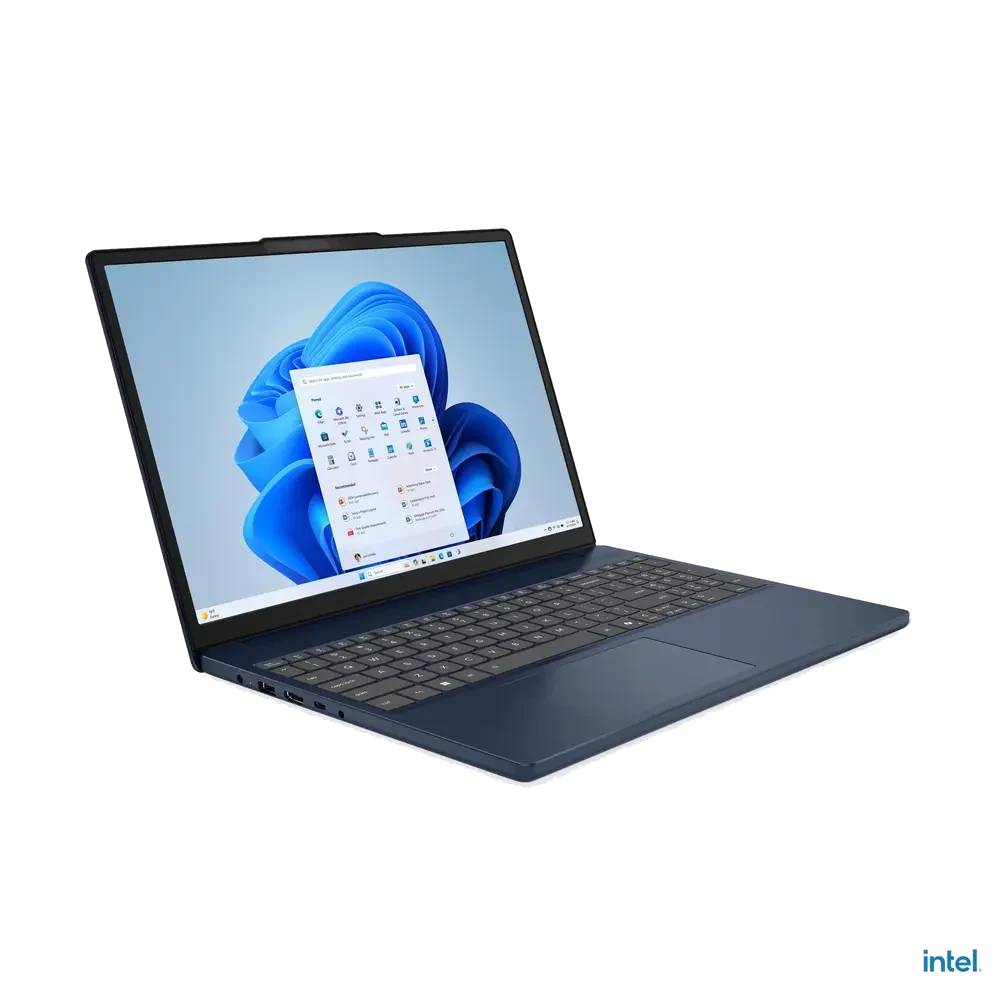
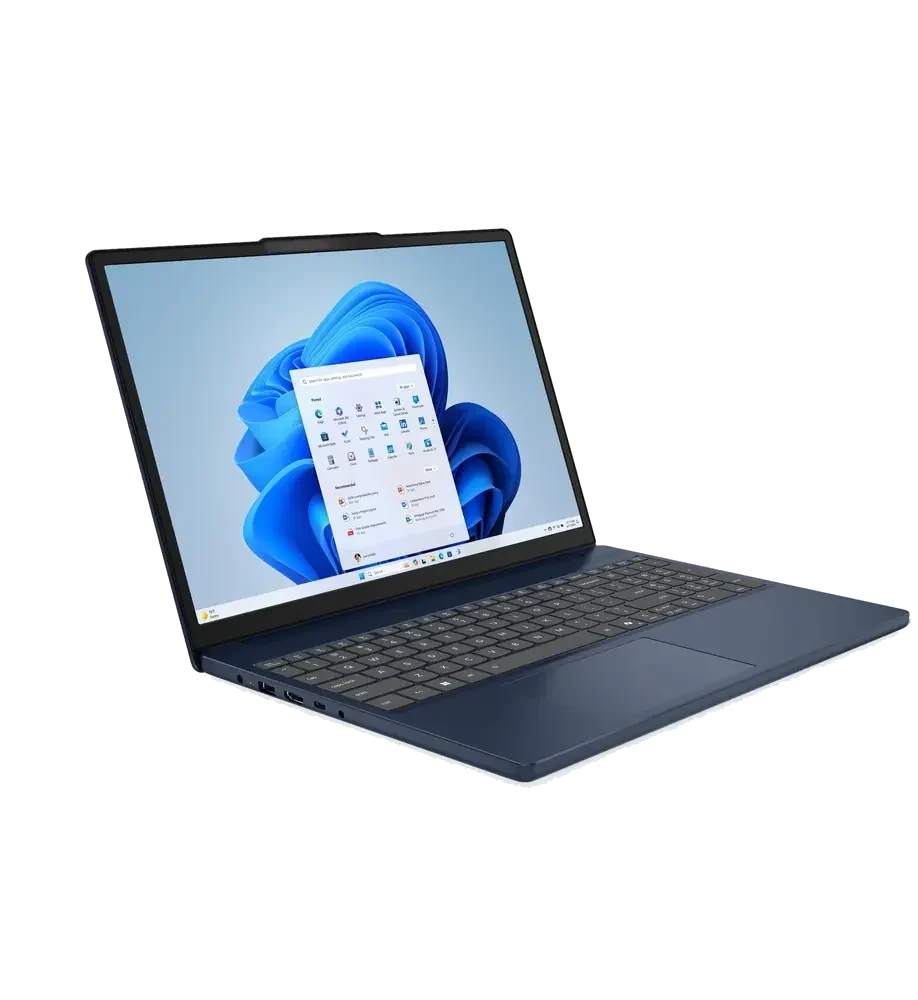
Fix Lenovo and MSI laptop product photos

Changed region(s): [[0.061, 0.217, 1.0, 0.806], [0.915, 0.93, 0.976, 0.992]]

diff --git a/PROJECT_STATUS.md b/PROJECT_STATUS.md
@@ -693,3 +693,11 @@ After owner review, continue with photos for other categories. Laptops after com
 Источники и поштучные пути сохранены в `ACCESSORIES_STORAGE_PHOTO_PROGRESS.json`; для сторонних каталогов и официальных ассетов перед коммерческим использованием требуется отдельная проверка прав. В карточках восьми страниц каталога заменены только placeholder-слоты на соответствующие `images/products/<ID>/main.webp`; фильтры, карточки, цены, характеристики, названия, ID, SKU, `price.csv`, универсальные `product.html`/ `product.js` и остальные категории не менялись.
 
 Выполнены локальные проверки JSON, путей и WebP. После публикации GitHub Pages через CUA проверены все 10 страниц подкатегорий: 50 подключённых изображений загрузились после прокрутки lazy-load без ошибок; проверены все 50 соответствующих `product.html?id=...`, имя товара и основной `main.webp` определились корректно. Отдельный мобильный viewport в текущем браузере недоступен; мобильные CSS и разметка не менялись.
+
+## Laptop photo correction — Lenovo IdeaPad Slim 3 15IRH10 and MSI Crosshair 16 AI (2026-11-01)
+
+- `laptop-005` (`LENOVO IP SLIM3 15IRH10`): removed only the lower-right Intel badge with a narrow right-edge crop. The laptop body, original angle, colors and product link remain unchanged.
+- `laptop-011` (`MSI CROSSHAIR 16 AI`): replaced the main image and all three additional images that carried CompuMarts branding with four clean assets from MSI's official Crosshair 16 HX AI D2XW product page. The main asset is transparent; gallery assets contain no third-party branding.
+- Audited the laptop records for MSI branding: `laptop-011` is the only MSI laptop in the current catalog, so no other MSI laptop image required replacement.
+- Kept the existing `image`/ `images` paths, `products.json`, catalog HTML, `product.html`, `product.js`, prices, specifications, IDs, SKUs, `price.csv` and all non-laptop categories unchanged.
+- QA: inspected all five changed WebP assets, verified non-empty valid WebP files, checked the unchanged catalog paths, and verified the laptop data/progress JSON. Official-source reuse still requires the project's existing manual rights review.
